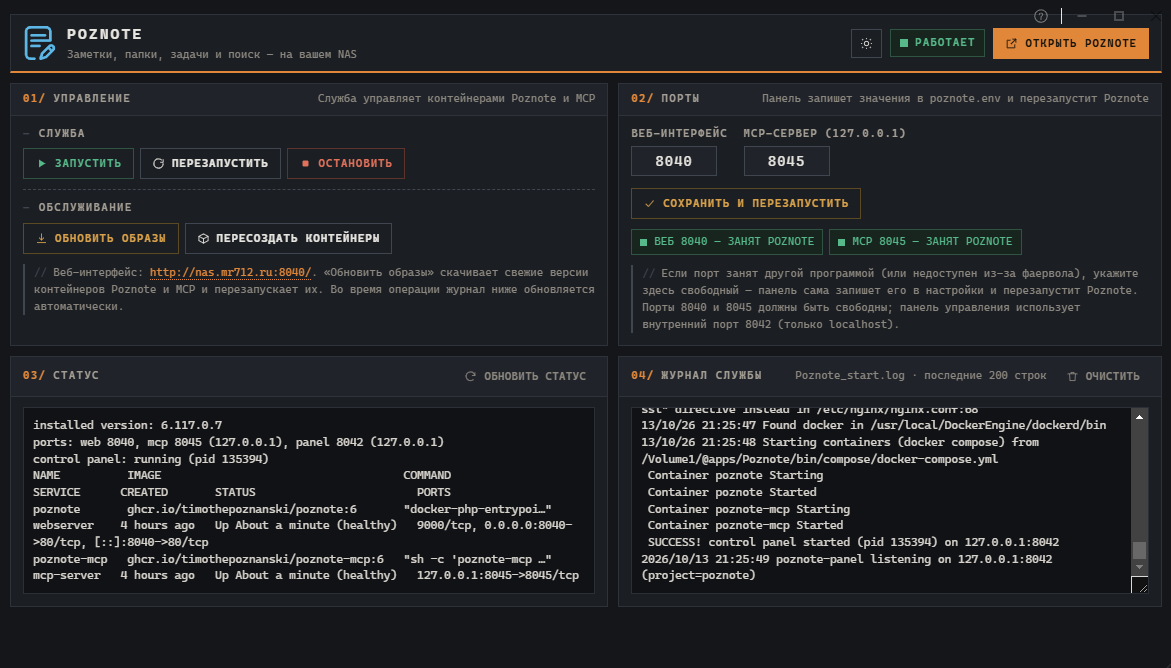
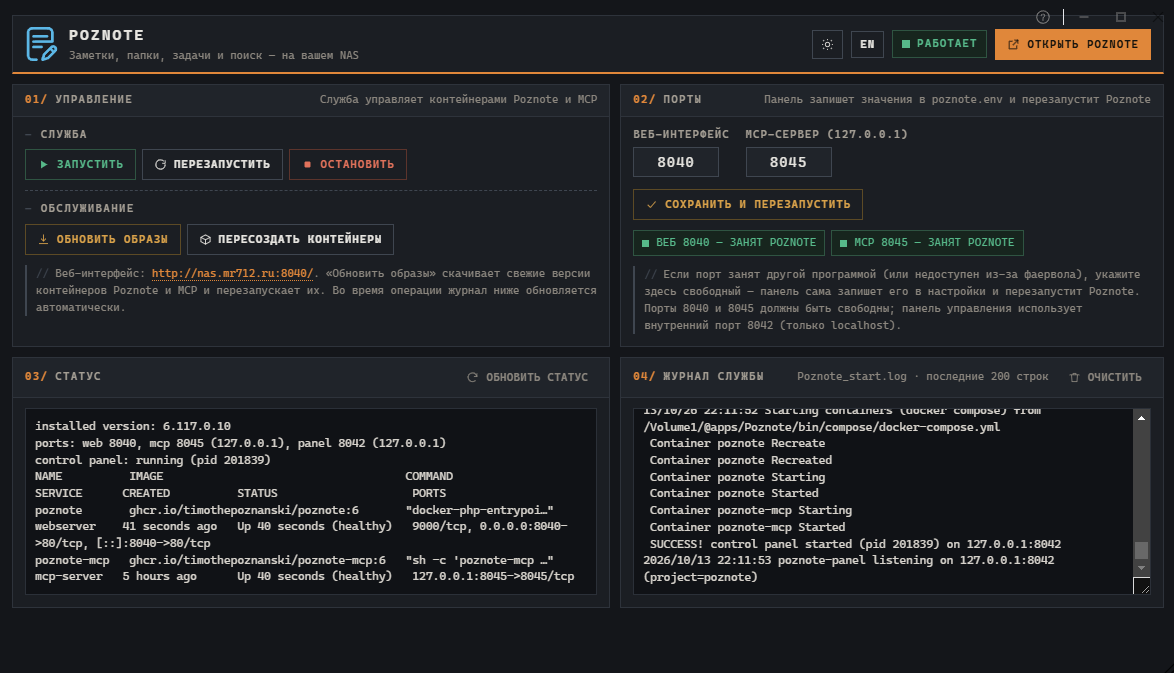
app page: keep the layout stable while an operation runs (v6.117.0.10)
- the progress bar and the result messages moved out of the page flow into a
  floating dock (position:fixed, outside the #fit wrapper): their appearance no
  longer changes the page height, so fitToWindow() no longer re-scales the page
  and the cards stay where they are while an operation runs
- pre.status is a fixed-height console now (170px, scrolls inside) instead of
  growing line by line as the status output arrives, which also re-triggered
  the height fitting on every poll
- the result message is a click-to-dismiss overlay (new string notice_hide)
- the "Open Poznote" link is built as http in JS as well: setAppPort() used
  location.protocol, so it produced an https link whenever the TOS panel was
  opened over https while the application itself listens on plain HTTP
- README (ru/en) and AGENTS.md updated
- version bumped to 6.117.0.10 (config.ini, version, init.d/service, .lang)

diff --git a/webui/index.php b/webui/index.php
@@ -189,6 +189,7 @@ $POZ_STRINGS = array(
         'msg_clearlog' => 'Журнал службы очищен.',
         'msg_unknown' => 'Неизвестное действие.',
         'done' => 'Готово.',
+        'notice_hide' => 'Нажмите, чтобы скрыть',
         'error' => 'Ошибка.',
         'ajax_fail' => 'Не удалось выполнить запрос: {0}',
     ),
@@ -273,6 +274,7 @@ $POZ_STRINGS = array(
         'msg_clearlog' => 'The service log has been cleared.',
         'msg_unknown' => 'Unknown action.',
         'done' => 'Done.',
+        'notice_hide' => 'Click to hide',
         'error' => 'Error.',
         'ajax_fail' => 'Request failed: {0}',
     ),
@@ -889,7 +891,7 @@ function T(key, args) {
   pre, textarea { width:100%; font-family:var(--mono); font-size:11.5px; line-height:1.45; margin:0; padding:9px;
                   background:var(--console-bg); color:var(--console-text); border:1px solid var(--console-line);
                   white-space:pre-wrap; word-break:break-word; }
-  pre.status { max-height:170px; overflow:auto; }
+  pre.status { height:170px; overflow:auto; }
   textarea { height:200px; min-height:110px; resize:vertical; }
   .notice { padding:8px 10px; margin-bottom:10px; border:1px solid var(--line-strong); border-left-width:3px; font-size:11.5px; }
   .notice.ok  { background:var(--ok-bg);  border-color:var(--ok-line);  border-left-color:var(--ok);  color:var(--ok); }
@@ -904,6 +906,16 @@ function T(key, args) {
   .progress .phint { color:var(--muted); margin-top:2px; font-size:11px; font-weight:normal; }
   .progress .pstep { margin-top:3px; color:var(--muted); font-size:10.5px; max-width:760px;
                      white-space:nowrap; overflow:hidden; text-overflow:ellipsis; }
+
+  /* ---------- Плавающая панель сообщений ---------- */
+  /* Прогресс и сообщения вынесены из потока: они не меняют высоту страницы,
+     поэтому подгонка по высоте (zoom) во время операции не пересчитывается
+     и раскладка не «прыгает». Панель появляется поверх нижней части страницы. */
+  .dock { position:fixed; left:14px; right:14px; bottom:14px; z-index:40;
+          display:flex; flex-direction:column; gap:8px; pointer-events:none; }
+  .dock > * { pointer-events:auto; }
+  .dock .notice { margin:0; cursor:pointer; }
+  .dock .progress { margin:0; border-color:var(--line-strong); }
   @media (max-width:560px) {
     .topbar { position:static; }
     .cardhead .hint { margin-left:0; width:100%; text-align:left; }
@@ -933,18 +945,6 @@ function T(key, args) {
         <?php echo poz_htmlesc(poz_t('open_app')); ?>
       </a>
     </div>
-  </div>
-
-  <div id="notice" class="notice <?php echo poz_htmlesc($noticeKind); ?>"<?php echo $notice === '' ? ' hidden' : ''; ?>><?php echo poz_htmlesc($notice); ?></div>
-
-  <div id="progress" class="card progress" hidden>
-    <div class="spinner" aria-hidden="true"></div>
-    <div>
-      <div class="ptxt" id="progressText"><?php echo poz_htmlesc(poz_t('progress_default')); ?></div>
-      <div class="phint" id="progressHint"></div>
-      <div class="pstep" id="progressStep"></div>
-    </div>
-    <div class="ptime" id="progressTime"><?php echo poz_htmlesc(poz_t('seconds', array(0))); ?></div>
   </div>
 
   <div class="grid">
@@ -1026,6 +1026,21 @@ function T(key, args) {
 
   </div><!-- /.grid -->
 
+</div><!-- /.wrap -->
+
+<!-- Прогресс и сообщения — поверх раскладки, вне потока и вне области подгонки:
+     их появление/исчезновение не меняет высоту страницы. -->
+<div class="dock" id="dock">
+  <div id="progress" class="card progress" hidden>
+    <div class="spinner" aria-hidden="true"></div>
+    <div>
+      <div class="ptxt" id="progressText"><?php echo poz_htmlesc(poz_t('progress_default')); ?></div>
+      <div class="phint" id="progressHint"></div>
+      <div class="pstep" id="progressStep"></div>
+    </div>
+    <div class="ptime" id="progressTime"><?php echo poz_htmlesc(poz_t('seconds', array(0))); ?></div>
+  </div>
+  <div id="notice" class="notice <?php echo poz_htmlesc($noticeKind); ?>" title="<?php echo poz_htmlesc(poz_t('notice_hide')); ?>"<?php echo $notice === '' ? ' hidden' : ''; ?>><?php echo poz_htmlesc($notice); ?></div>
 </div>
 
 <script>
@@ -1136,6 +1151,12 @@ function T(key, args) {
     scheduleFit();
   }
 
+  // Сообщение живёт в плавающей панели поверх страницы: по клику убираем,
+  // чтобы оно не закрывало нижнюю часть журнала.
+  if (notice) {
+    notice.addEventListener('click', function () { setNotice(true, ''); });
+  }
+
   function esc(s) {
     return String(s).replace(/&/g, '&amp;').replace(/</g, '&lt;').replace(/>/g, '&gt;');
   }
@@ -1164,10 +1185,12 @@ function T(key, args) {
     portsBox.innerHTML = out.join(' ');
   }
 
-  // После смены порта поправляем ссылку «Открыть Poznote».
+  // После смены порта поправляем ссылку «Открыть Poznote». Само приложение
+  // слушает обычный HTTP, поэтому схему задаём жёстко — http, а не схема страницы
+  // (панель TOS может быть открыта по https, и ссылка тогда ведёт в никуда).
   function setAppPort(port) {
     if (!port) { return; }
-    var url = location.protocol + '//' + location.hostname + ':' + port + '/';
+    var url = 'http://' + location.hostname + ':' + port + '/';
     Array.prototype.slice.call(document.querySelectorAll('.applink')).forEach(function (a) {
       a.href = url;
     });

diff --git a/README.en.md b/README.en.md
@@ -4,21 +4,26 @@
 
 <div align="center">
 
-[![Version](https://img.shields.io/badge/Version-6.117.0.9beta-blue.svg)]()
+[![Version](https://img.shields.io/badge/Version-6.117.0.10beta-blue.svg)]()
 [![Platform](https://img.shields.io/badge/Platform-TOS-blue.svg)]()
 [![License](https://img.shields.io/badge/License-MIT-blue.svg)](LICENSE)
 
-  <img width="150" alt="Poznote logo" src="/images/poznote-icon.png">
+  <img width="150" alt="Poznote logo" src="images/poznote-icon.png">
   <h3>Poznote</h3>
   Powerful note-taking without the hassle.<br/>
   A free, self-hosted, open-source alternative to Notion, Obsidian, Evernote or OneNote.
   <br/><br/>
 </div>
-| Light theme | Dark theme |
-| :---: | :---: |
-| ![Poznote panel, light theme (interface in Russian)](images/PoznoteForTosDockerEditionWhite_ru.png) | ![Poznote panel, dark theme (interface in Russian)](images/PoznoteForTosDockerEditionBlack_ru.png) |
 
-- Ready-to-use **Poznote 6.117.0.9-beta** package for x86_64 TerraMaster NAS (TOS6/TOS7).
+| Light theme |
+| :---: |
+| ![Poznote panel, light theme (interface in English)](images/PoznoteForTosDockerEditionWhite_en.png) |
+
+| Dark theme |
+| :---: |
+| ![Poznote panel, dark theme (interface in English)](images/PoznoteForTosDockerEditionBlack_en.png) |
+
+- Ready-to-use **Poznote 6.117.0.10-beta** package for x86_64 TerraMaster NAS (TOS6/TOS7).
 - This is the **Docker Edition**: the application runs in containers built from the official Docker
   images, and the package itself does not bundle them — so the app is updated independently of the package.
 - This repository contains releases, the package tree, build tools, and everything needed to rebuild the package.
@@ -38,7 +43,7 @@ This package is provided **as is**, without warranties of any kind, either expre
 including, but not limited to, the implied warranties of merchantability, fitness for a particular
 purpose, and non-infringement.
 
-- This package is a **beta** build (6.117.0.9-beta) from a community member and is **not** an
+- This package is a **beta** build (6.117.0.10-beta) from a community member and is **not** an
   official release of TerraMaster or Poznote.
 - Use at your own risk. The author is **not responsible** for data loss, system crashes, downtime,
   or any other consequences of installing and using this package.
@@ -79,7 +84,7 @@ purpose, and non-infringement.
 
 ## Install
 
-1. Download `Poznote_TOS7_TOS6_6.117.0.9-beta-x86_64.tpk`.
+1. Download `Poznote_TOS7_TOS6_6.117.0.10-beta-x86_64.tpk`.
 2. In TOS: **App Center → Settings → Install application manually** (Install from file) and
    pick the `.tpk`.
 3. Wait for the installation to finish. A **Poznote** icon appears on the desktop
@@ -117,6 +122,11 @@ buttons. No manual Docker work is needed — every action goes through `/etc/ini
 - the page is bilingual, **Russian and English**, English by default: the language is switched
   with the **RU/EN** button in the header (next to the theme button) and is remembered in the
   browser — it can also be set by URL, `http://<NAS>/Poznote/?lang=ru`;
+- the result of an operation and the progress indicator are shown in a floating bar at the
+  bottom of the window: they never move the cards, so the layout does not jump while an
+  operation runs (click the message to dismiss it); the status console and the log have a
+  fixed height and scroll inside themselves, and **Open Poznote** always uses **http** — the
+  application listens on plain HTTP even when the TOS panel is opened over https;
 - the look is an "instrument panel" rather than generic white cards with a blue accent:
   monospace type, square corners, hairline rules instead of shadows and gradients, numbered
   sections and buttons that invert on hover. The light theme is a "paper ledger" (warm paper,
@@ -288,7 +298,7 @@ The script will:
 5. take the file name and header version from `config.ini`.
 
 The result is named `<id>_TOS7_TOS6_<version>[-<tag>]-<platform>.tpk`, e.g.
-`Poznote_TOS7_TOS6_6.117.0.9-beta-x86_64.tpk`.
+`Poznote_TOS7_TOS6_6.117.0.10-beta-x86_64.tpk`.
 
 All default paths are **relative to the script folder** `tools\`: package tree `..\PoznoteTOS`,
 output `..`. Intermediates go to the `tools\_build\` scratch folder and are removed afterwards.
@@ -358,7 +368,7 @@ All files are owned by `root:root`.
 
 ```powershell
 # 1. the header md5 must match the payload md5 (offset 10240)
-$b = [IO.File]::ReadAllBytes("$pwd\Poznote_TOS7_TOS6_6.117.0.9-beta-x86_64.tpk")
+$b = [IO.File]::ReadAllBytes("$pwd\Poznote_TOS7_TOS6_6.117.0.10-beta-x86_64.tpk")
 # 2. the payload extracts and its permissions/contents match the package tree
 #    (slice the bytes from offset 10240 and inspect with tar -tvf)
 ```

diff --git a/AGENTS.md b/AGENTS.md
@@ -167,6 +167,19 @@ webui.bz2 = xz( GNU-tar )
 - правила для правок: строки только через словарь, `<html lang>` = выбранный язык,
   `<?php echo poz_htmlesc(poz_t(...)); ?>` — и в тексте, и в атрибутах.
 
+Живая раскладка и ссылка на приложение:
+
+- прогресс и сообщения о результате — в `.dock` (`position:fixed`, **вне** `#fit`):
+  они не участвуют в раскладке, поэтому `fitToWindow()` не пересчитывается во время
+  операции и страница не «прыгает». Не возвращайте `#notice`/`#progress` в поток над
+  `.grid` — это ломает вид при запуске операций.
+- из того же принципа высота `pre.status` фиксирована (`height:170px`), а журнал —
+  `textarea` с фиксированной высотой: карточки не должны расти по мере наполнения.
+- ссылка «Открыть Poznote» строится жёстко по **http**: `$appUrl` в PHP и `setAppPort()`
+  в JS (`http://<host>:<порт>/`). `location.protocol` использовать нельзя — панель TOS
+  может быть открыта по https, а приложение слушает обычный HTTP.
+- сообщение в панели снимается кликом (подпись — ключ `notice_hide`).
+
 ---
 
 ## 6. Панель управления (`tools/panel`)
@@ -193,7 +206,7 @@ Go-бинарник, запускается службой `init.d/service` по
 
 Версия пакета = `<версия upstream-приложения>.0` (например приложение
 `6.117.0` → пакет `6.117.0.0`; при пересборке без изменения приложения версия упаковки
-поднимается на последнюю цифру, например `6.117.0.9`). Менять **синхронно** в:
+поднимается на последнюю цифру, например `6.117.0.10`). Менять **синхронно** в:
 
 1. `PoznoteTOS/version`
 2. `PoznoteTOS/config.ini` → `"version"`
